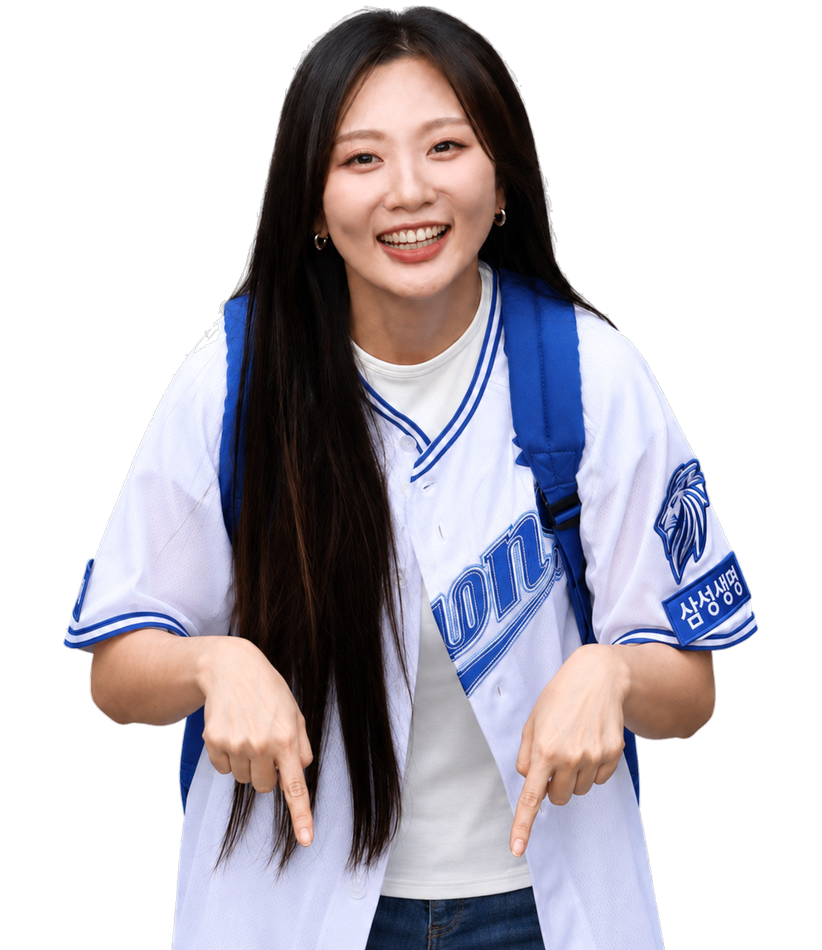
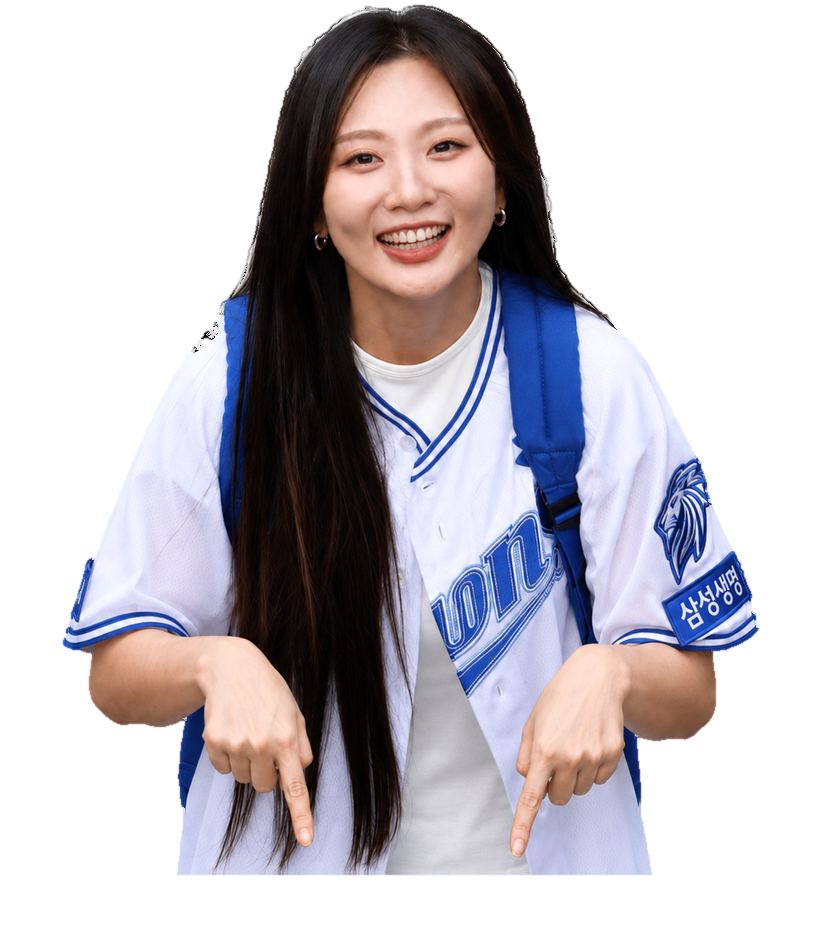
Add files via upload

diff --git a/jemechu/sw.js b/jemechu/sw.js
@@ -1,4 +1,4 @@
-const CACHE_NAME = "what-to-eat-v13";
+const CACHE_NAME = "what-to-eat-v14";
 const ASSETS = [
   "./",
   "./index.html",
